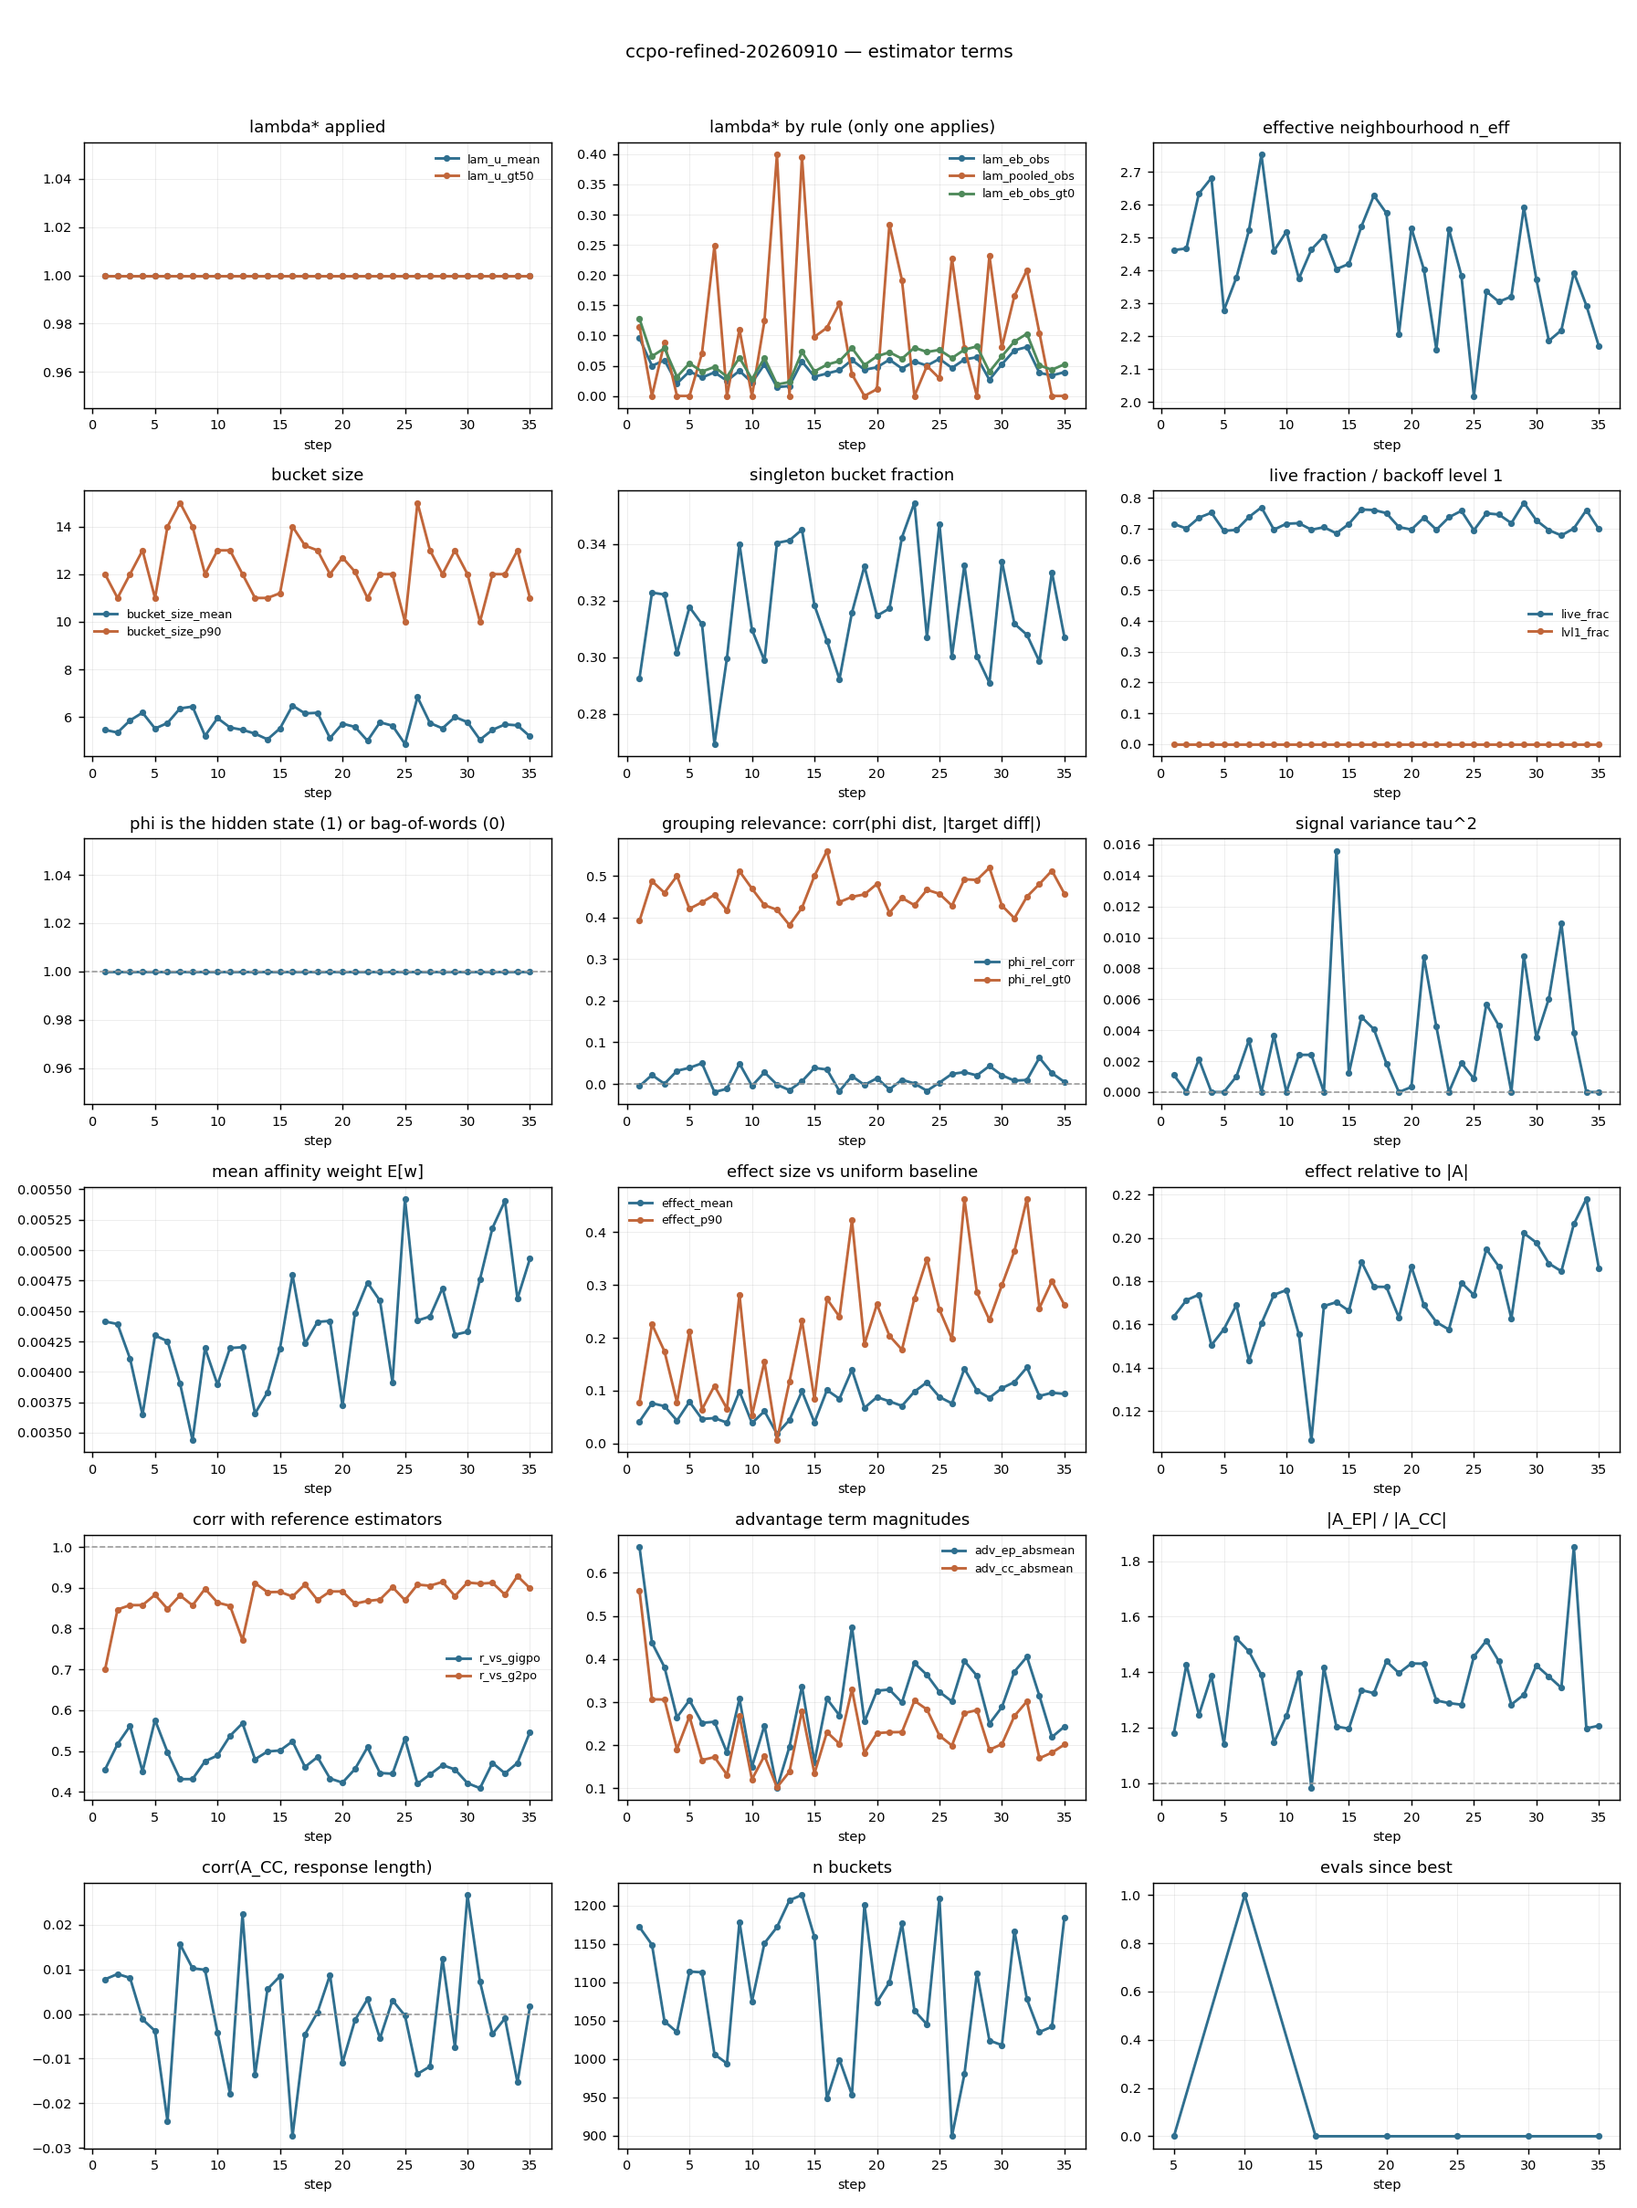
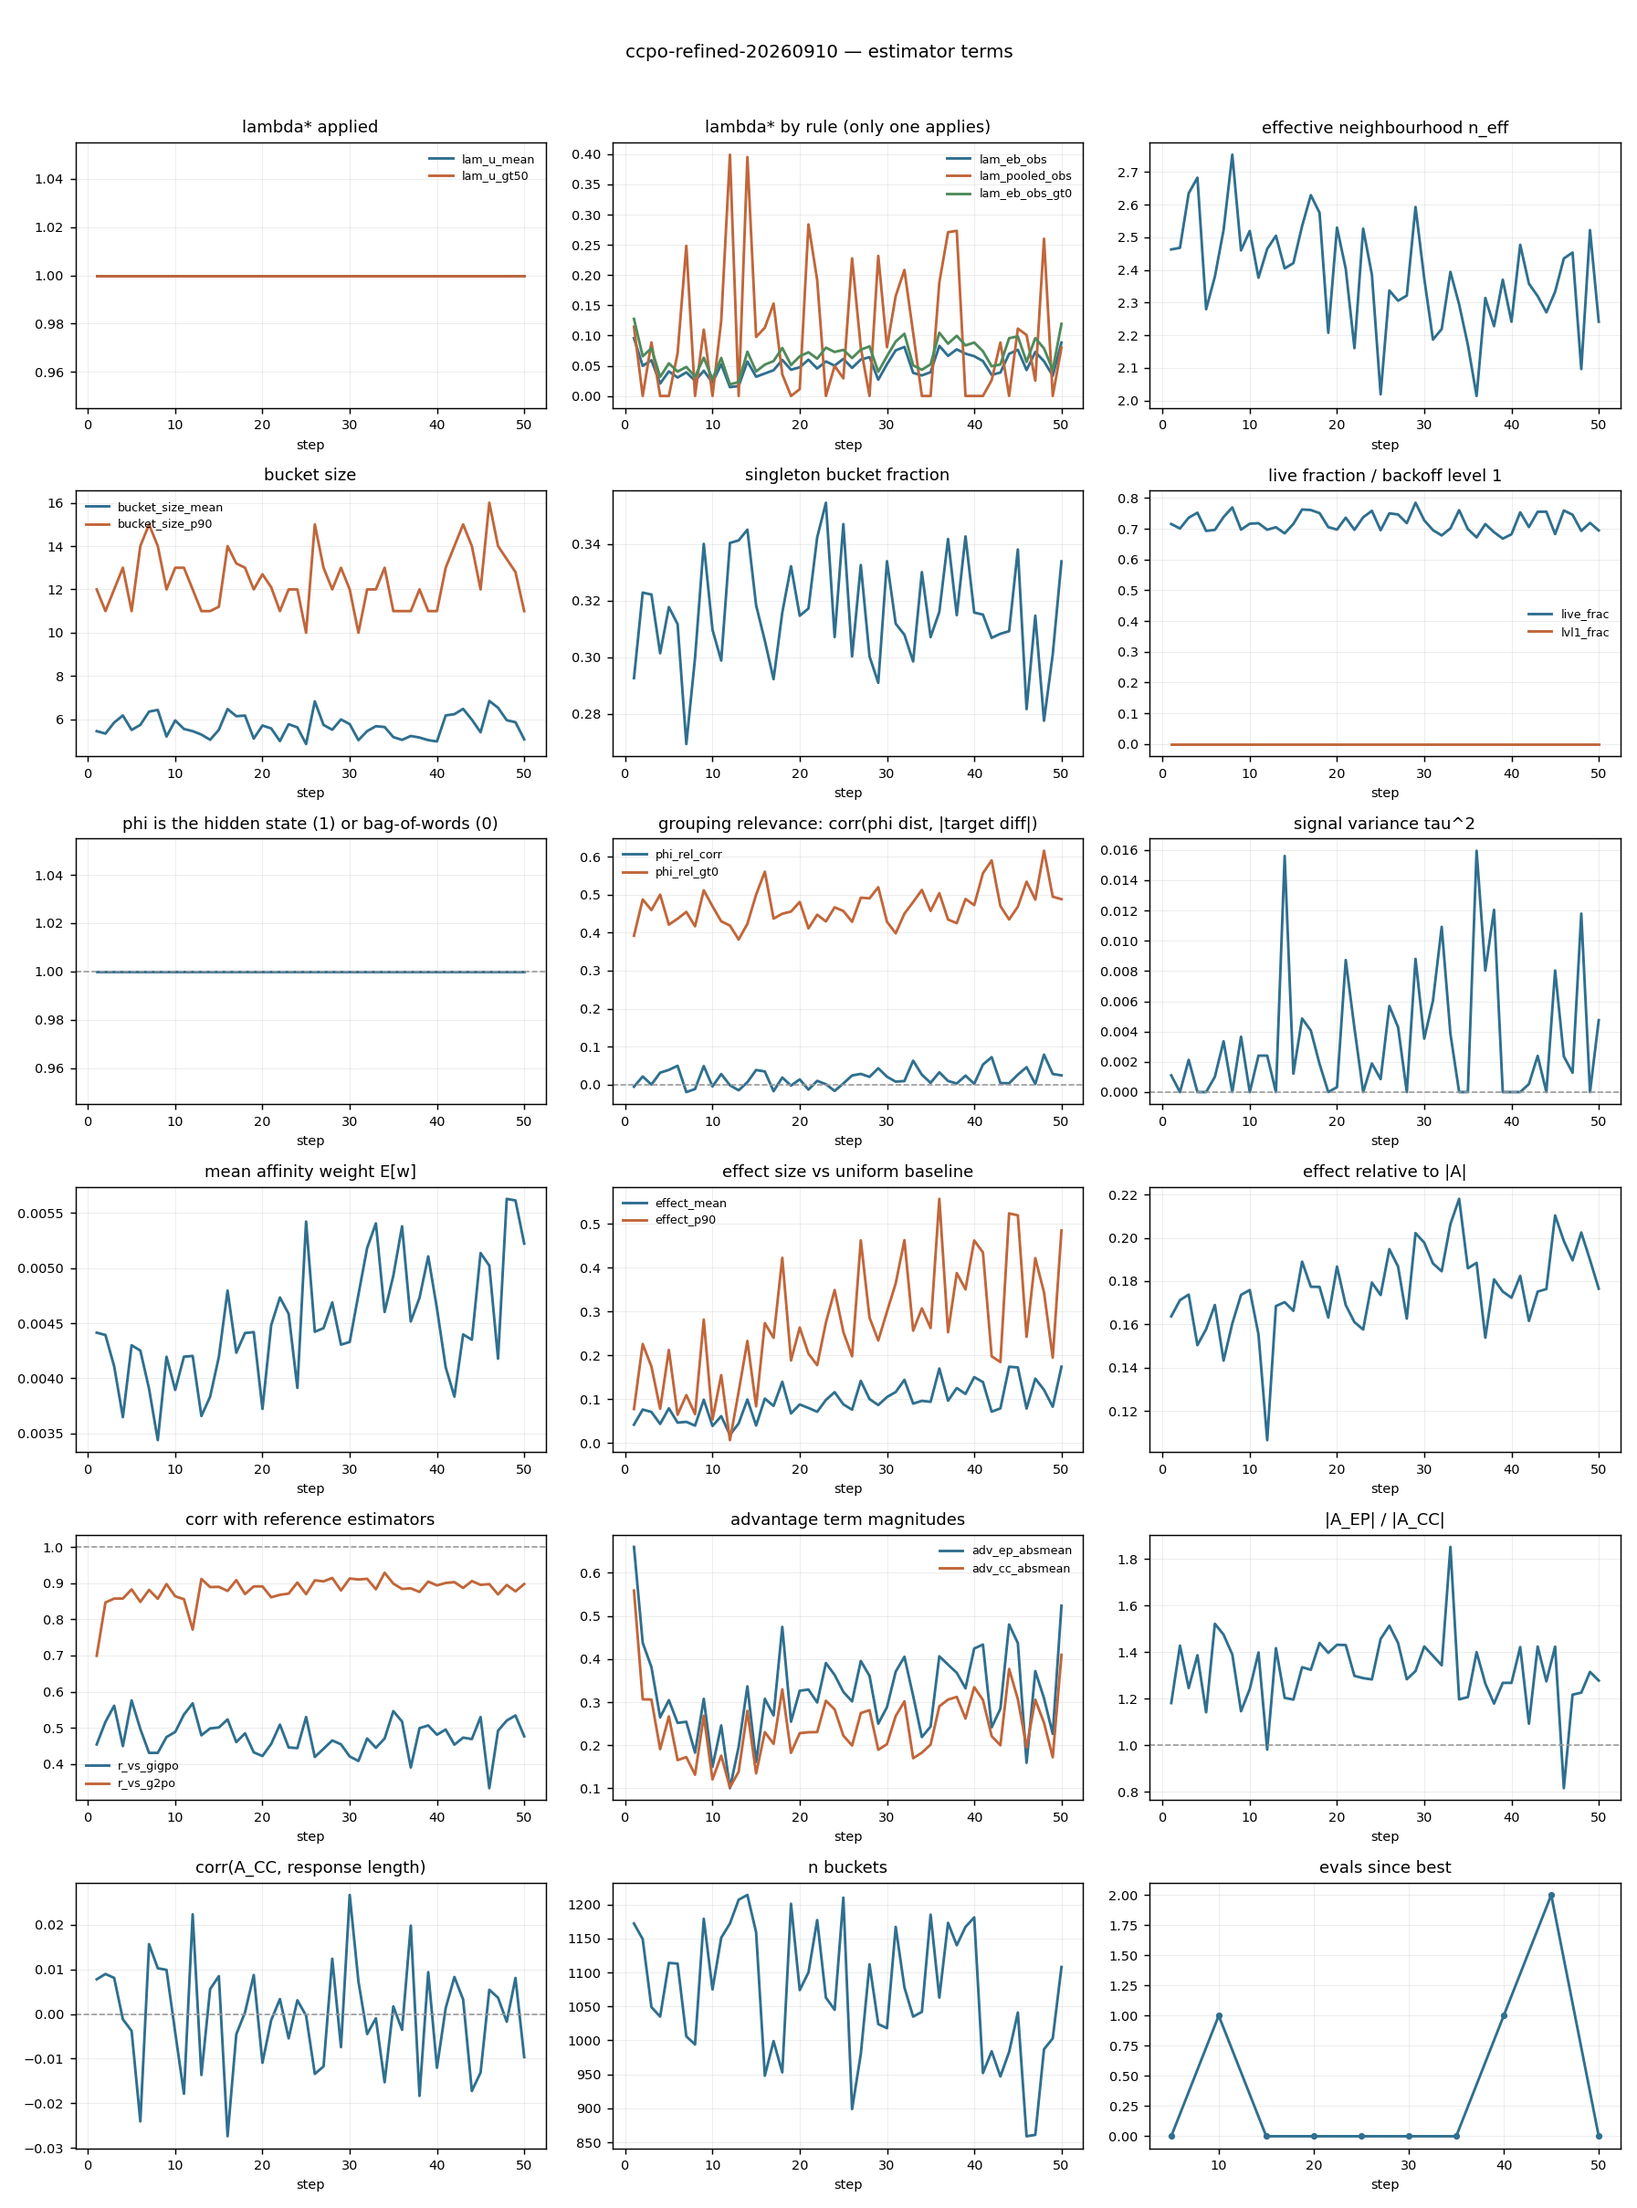
ccpo-refined fails its step-50 judgement: stopped, verdict recorded
Held-out 36.7% against base's 50.0% at step 50 (-13.3, beyond 2SE). Pooled over ten
evaluations it is -5.8, with 9 of 10 negative, and -8.7 over the window of steps
30-50. The test was valid: lam stayed at 1.000 and context carried 17.6% of |A|
throughout. Refining the partition gave context structure to explain (tau2 > 0 on
68% of steps, against none before), but acting on it at full weight hurts.
Empirical Bayes' own weight of about 4% was the right call.

The config said total_epochs 100, and early stopping would not fire while step 50
was the best yet. The trainer and Ray tree were SIGKILLed after
latest_checkpointed_iteration.txt read 50, keeping step50-best and step50-last, so
the queue can hand GPUs 0-3 to the HGPO reference. NOTES, the H-AL FINAL entry,
HANDOFF and method.html record the result.

Claude-Session: https://claude.ai/code/session_01Eywpmpzk7tuN6B1qiJfqQk

diff --git a/docs/method.html b/docs/method.html
@@ -1114,7 +1114,7 @@ td .m{font-family:"IBM Plex Mono",monospace; font-size:.93em}
         <tr style="background:rgba(200,60,50,.07)"><td class="dim"><b>G&sup2;PO &mdash; THEIR TREE, OUR HARDWARE</b></td><td class="num"><b>100</b></td><td class="num"><b>91.4</b></td><td><b>reproduction</b> &mdash; window mean 86.8, peak 95.3 @95; <span class="m">g2po-ref-20260909</span></td></tr>
         <tr class="ourrow"><td class="dim"><b>CCPO &mdash; global gate + edge term</b></td><td class="num"><b>100</b></td><td class="num"><b>79.7</b></td><td><b>ours, 1 seed</b> &mdash; <span class="m">ccpo-global-20260907</span></td></tr>
         <tr><td class="dim">CCPO &mdash; global gate &plus; G&sup2;PO-style anchor</td><td class="num">31</td><td class="num">20.3 @30</td><td>stopped, unconverted &mdash; 6/6 evaluations behind base; <span class="m">ccpo-anchor-20260909</span></td></tr>
-        <tr><td class="dim">CCPO &mdash; <b>hard gate</b> &plus; G&sup2;PO-style anchor, &lambda; forced to 1</td><td class="num">100</td><td class="num" style="opacity:.6">running</td><td>the design-error fix: context <em>refines</em> the partition; 14.8 @20 vs base 21.1; <span class="m">ccpo-refined-20260910</span></td></tr>
+        <tr><td class="dim">CCPO &mdash; <b>hard gate</b> &plus; G&sup2;PO-style anchor, &lambda; forced to 1</td><td class="num">50</td><td class="num">36.7 @50</td><td><b>failed</b>, stopped at its step-50 judgement: base 50.0 (&minus;13.3, beyond 2SE); pooled &minus;5.8 over 10 evaluations; <span class="m">ccpo-refined-20260910</span></td></tr>
         <tr><td class="dim">CCPO &mdash; same arm extended to 145</td><td class="num">145</td><td class="num">79.7</td><td>mean of 9 evals &mdash; <b>+0.00 over step 100</b>; <span class="m">ccpo-global-ext-20260908</span></td></tr>
         <tr><td class="dim">GRPO (published)</td><td class="num">100</td><td class="num">72.8 &plusmn; 3.6</td><td>&mdash;</td></tr>
         <tr><td class="dim">CCPO &mdash; hard gate, no edge term</td><td class="num">100</td><td class="num">70.3</td><td>ours &mdash; <span class="m">ccpo-long-20260906</span></td></tr>
@@ -1262,15 +1262,16 @@ td .m{font-family:"IBM Plex Mono",monospace; font-size:.93em}
     G&sup2;PO's key: the key was right, the anchor feeding it was too coarse.</p>
   </div>
 
-  <p style="margin-top:16px"><b>What is under test now.</b> <span class="m">ccpo-refined</span> fixes the design
-  error: context conditioning <em>refines</em> G&sup2;PO's partition (hard gate on observation &plus; admissible
-  actions &plus; failure repair) instead of replacing it, with &lambda; forced to 1 so the context term genuinely
-  operates &mdash; under the hard gate the empirical-Bayes &lambda; would otherwise collapse to ~0.01. It is valid
-  (&lambda; = 1.000, context carries 16.5% of |A|), passed its kill rule at step 20, and runs to 50. All four
-  evaluations so far trail base, each within noise.</p>
+  <p style="margin-top:16px"><b>Latest result: forcing context on top of G&sup2;PO's grouping fails.</b>
+  <span class="m">ccpo-refined</span> fixed the design error: context conditioning <em>refines</em> G&sup2;PO's
+  partition (hard gate on observation &plus; admissible actions &plus; failure repair) instead of replacing it,
+  with &lambda; forced to 1 so the context term genuinely operates. The test was valid throughout (&lambda; = 1.000,
+  and context carries 17.6% of |A|). It trailed base at 9 of 10 evaluations and failed its step-50 judgement:
+  <b>36.7% vs 50.0%</b> (&minus;13.3, beyond 2SE), with a pooled &minus;5.8. Its losses concentrate in the
+  clean, cool and heat tasks.</p>
 
   <div class="callout">
-    <div class="lbl">What it has already shown &mdash; context carries a little signal once the state is right</div>
+    <div class="lbl">What it showed &mdash; context has real structure once the state is right, but too little to act on</div>
     <p>On the observation-only partition the between-node variance &tau;&sup2; that context exists to explain was
     positive on <b>0 of 130</b> steps. On the refined partition it is positive on <b>65%</b>. So the refinement does
     give context real structure &mdash; the shrinkage was partly responding to a bad partition, not only to a bad
@@ -1280,7 +1281,9 @@ td .m{font-family:"IBM Plex Mono",monospace; font-size:.93em}
     matter, so the principled <span class="m">shrink=eb</span> follow-up was cancelled.</p>
   </div>
 
-  <p style="margin-top:14px"><b>Queued behind it:</b> <span class="m">g2po-harness</span> (paused at step 5,
+  <p style="margin-top:14px"><b>Now running:</b> the <span class="m">HGPO</span> reference (its own code,
+  unmodified, 160 iterations, GPUs 0&ndash;3). Its step-100 weights and held-out score are kept for a
+  budget-matched comparison. <b>Queued behind it:</b> <span class="m">g2po-harness</span> (paused at step 5,
   resumable), then <span class="m">g2po-aff</span> and <span class="m">g2po-affonly</span>. The last is the only
   fully domain-agnostic test: our failure repair and admissible-action key are generic, but our invisible-state
   carry-forward copies G&sup2;PO's ALFWorld strings (<span class="m">"You heat"</span>,

diff --git a/experiments/ccpo-refined-20260910/NOTES.md b/experiments/ccpo-refined-20260910/NOTES.md
@@ -130,3 +130,31 @@ against base's 50.0, and ultimately against `g2po-aff`.
 measure does not move: `lam_eb_obs` mean 0.0413 (0.0424 over steps 1-10, 0.0402 over
 11-20), max 0.0956, 0.037-0.060 across steps 16-20. Below the ~0.2 exception by a factor
 of four. **`ccpo-refined-eb` stays cancelled.**
+
+## VERDICT at step 50: FAIL. Forcing context onto G2PO's partition hurts.
+
+| step | 5 | 10 | 15 | 20 | 25 | 30 | 35 | 40 | 45 | 50 |
+|---|---|---|---|---|---|---|---|---|---|---|
+| ccpo-refined | 7.8 | 7.0 | 14.1 | 14.8 | 22.7 | 25.0 | 28.9 | 20.3 | 25.8 | **36.7** |
+| base | 10.2 | 10.9 | 17.2 | 21.1 | 21.1 | 30.5 | 35.9 | 22.7 | 41.4 | **50.0** |
+| diff | -2.3 | -3.9 | -3.1 | -6.2 | +1.6 | -5.5 | -7.0 | -2.3 | -15.6 | **-13.3** |
+
+* Pooled over all 10 evaluations: **-5.8**, with 9 of 10 negative. Over the window of
+  steps 30-50: **-8.7**. Steps 45 and 50 individually exceed 2SE (±11.6 and ±12.3).
+* The G2PO reference was at 79.7 by step 50, so the gap to SOTA is far larger than the gap to base.
+* By task type, the losses concentrate in clean, cool and heat (-18 to -24 at step 50), plus
+  pick_two (-18). Only look_at_obj is ahead (+7).
+* Validity held throughout: lam = 1.000 on every step, and context carries 17.6% of |A|.
+  So this is a genuine test of the context term, and it did not help.
+* tau2 was positive on 34/50 steps (68%), against 0/130 under the observation-only
+  partition. Once the partition is right, context has real structure to explain. But
+  empirical Bayes would weight it at ~4% (`lam_eb_obs`), and forcing it to 100% costs
+  success rate. **The context structure exists, but it is too weak to act on at full
+  weight.**
+
+**Stopped at step 50** (total_epochs was 100, and early stopping would not fire because
+step 50 was the best yet). This was the pre-registered judgement point, and the user
+queued HGPO to follow it. The trainer and Ray tree were SIGKILLed after
+`latest_checkpointed_iteration.txt` read 50. Checkpoints kept: `step50-best` and
+`step50-last`, the same step. To resume: `resume_from=.../global_step_50` under a NEW
+name, because `launch()` rm -rf's its target directory.

diff --git a/experiments/hypothesis.md b/experiments/hypothesis.md
@@ -3310,3 +3310,17 @@ split `eval_in_distribution`, 128 episodes, val temperature 0.4, `do_sample=True
 * **`phi_is_hidden` had an exact-match bug** (`== "hidden"` vs `hidden+ctx`), which
   silently ran `bow` and made the guard metric report a φ failure that was really a
   gating failure. Same bug in the capture gate in `fsdp_workers.py`.
+
+
+### H-AL / ccpo-refined -- FINAL (2026-09-10, step 50): refuted, and harmful at full weight
+
+Forcing lam = 1 on the refined partition (hard gate + anchor_aff + obs_repair) trails base
+at 9 of 10 evaluations: pooled -5.8, window 30-50 -8.7, step 50 36.7 vs 50.0 (-13.3,
+beyond 2SE). The test was valid (lam = 1.000 and context share 17.6% throughout), and the
+refinement did give context something to explain (tau2 > 0 on 68% of steps vs 0% before).
+Empirical Bayes' own weight of ~4% was the right answer: the structure is real but weak,
+and imposing it at full weight replaces a good baseline with a noisier one. **This closes
+the "context conditioning on top of G2PO's partition" route at full weight.** The only
+untested variant is the EB-weighted one (`shrink=eb`), which by construction would stay
+within ~4% of G2PO and cannot beat it by much. The comparator for any future
+partition-side idea is `g2po-aff`, which is queued.

diff --git a/HANDOFF.md b/HANDOFF.md
@@ -2,10 +2,12 @@
 
 ## CURRENT STATE — 2026-09-10 (read this before anything below)
 
-**Running** — `ccpo-refined-20260910` on GPUs 0-3: CCPO with context REFINING the
-partition (`gate=hard`, `anchor_aff=1`, `obs_repair=1`) and lambda forced to 1
-(`ccpo_shrink=one`). See its NOTES for why the forced lambda is required and for the
-step-1 validity check.
+**Finished** — `ccpo-refined-20260910` **FAILED** at its step-50 judgement: 36.7 vs base 50.0
+(-13.3, beyond 2SE), pooled -5.8 over 10 evaluations. It was stopped at step 50 by SIGKILL
+after the step-50 save; `step50-best` and `step50-last` are kept. See its NOTES and H-AL FINAL.
+
+**Running / next** — `hgpo-ref-4gpu-20260910` launches from the queue on GPUs 0-3.
+`scripts/snapshot_ckpt.sh` is waiting to preserve its step-100 weights as `step100-budget`.
 
 **Disk (09:20)** — the shared filesystem was at 69 GB free (14 TB total, ours ~690 GB).
 `exp_run.py` now waits for >=80 GB before launching (`EXP_MIN_FREE_GB`). A running arm
